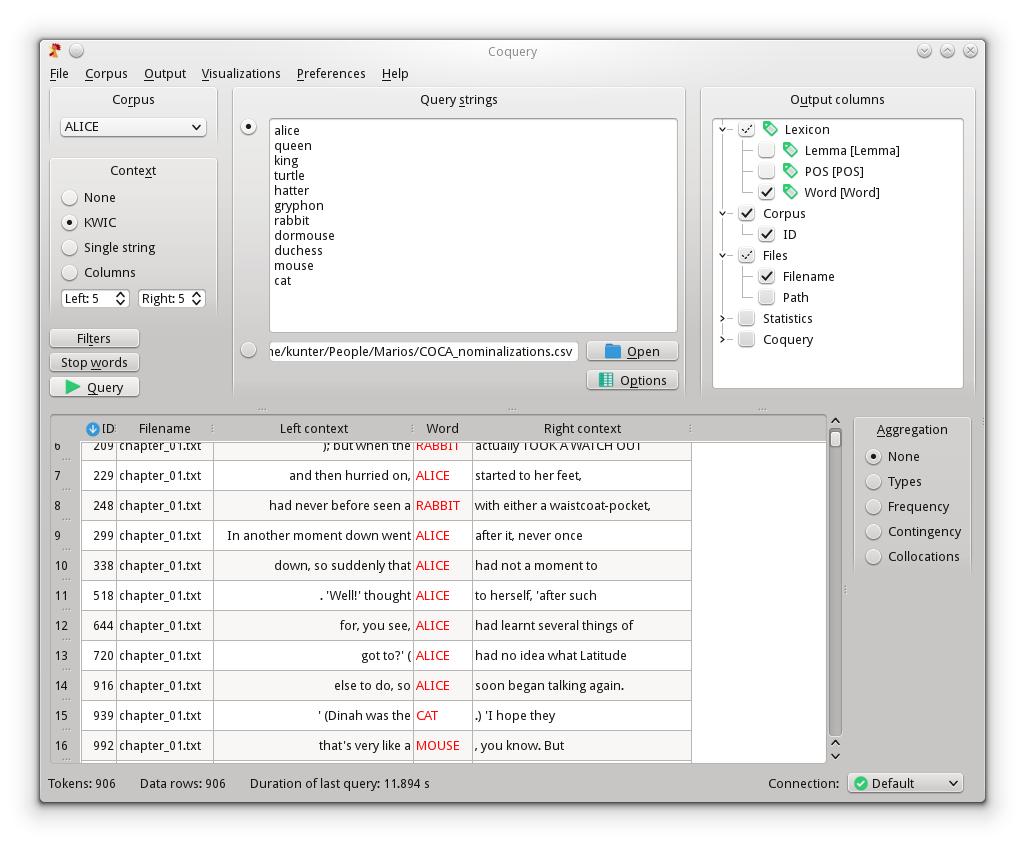
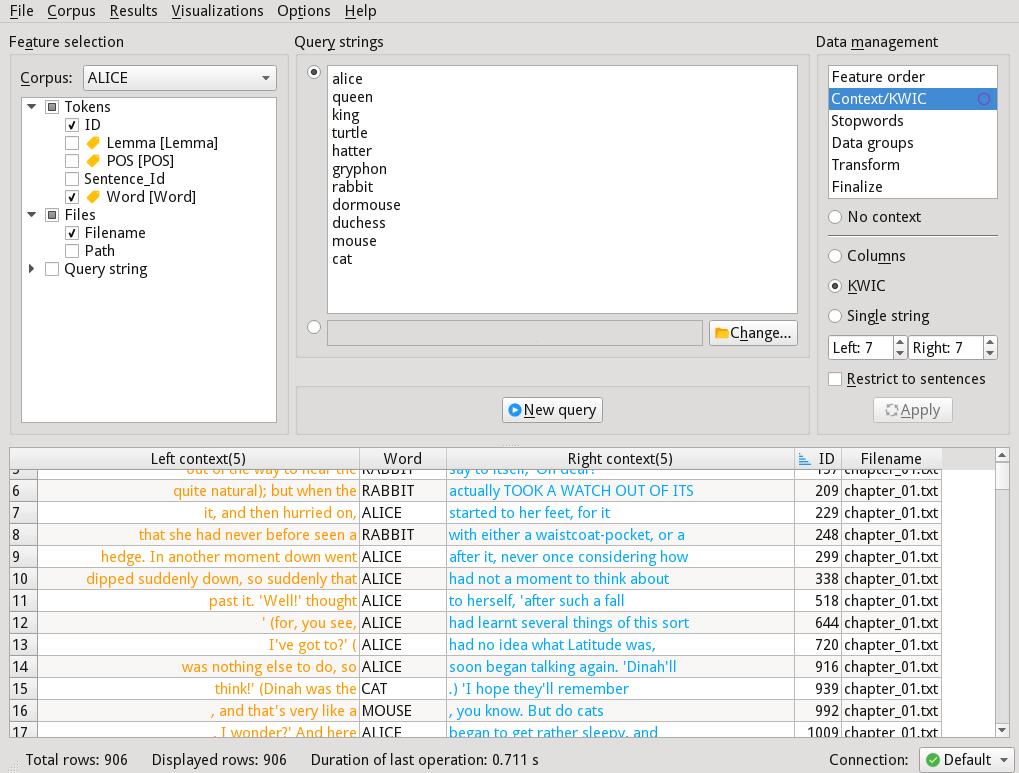
Update documentation

diff --git a/coquery/help/searchindex.js b/coquery/help/searchindex.js
@@ -1,1 +1,1 @@
-Search.setIndex({docnames:["doc/index","doc/tutorial/index","index","stash/development/development","stash/development/index","stash/welcome"],envversion:51,filenames:["doc/index.rst","doc/tutorial/index.rst","index.rst","stash/development/development.rst","stash/development/index.rst","stash/welcome.rst"],objects:{},objnames:{},objtypes:{},terms:{"128mb":[],"5mb":[],"\u0121abra":[],"case":[],"class":2,"default":1,"final":1,"function":1,"import":1,"long":[],"new":[1,2],"public":5,"return":1,"short":1,"switch":1,"void":[],"while":1,ADDED:[],AND:[],And:[],BEING:[],BUT:[],But:[],FOR:[],For:1,HAS:[],ICE:[],NOT:[],Not:[],One:1,POS:1,SUCH:[],Such:[],THE:[],THERE:[],The:[1,2],Then:1,There:[],These:[],USE:[],Use:[],Using:[],WILL:[],WITH:[],With:1,abil:[],about:1,abov:[],absenc:[],absolut:[],abus:[],accept:[],access:[],accompani:[],accord:[],accur:[],acknowledg:[],acquir:[],across:1,act:[],action:2,activ:1,actual:1,adapt:[],add:1,added:[],addit:1,addition:[],address:[],adject:[],adjust:1,adopt:[],advantag:[],adventur:1,advers:[],advic:1,advis:[],affect:[],affero:[],affirm:[],after:1,again:1,against:[],aggreg:[],agre:[],agreement:[],aim:[],alic:0,alk:[],all:1,alleg:[],alloc:[],allow:1,almost:[],along:[],alpha:[],alphabet:[],alreadi:1,als:[],also:1,altern:[],although:[],alwai:1,ambigu:[],american:[],among:[],anaconda:[],analys:[1,2],analysi:[],analyz:[],ancillari:[],ani:1,anim:1,annot:[],anoth:[],antconc:1,anti:[],anybodi:2,anyon:[],anyth:[],ao1:[],apart:1,appar:1,appear:1,append:[],appli:1,applic:1,appropri:[],approxim:[],area:[],aris:[],arrang:1,articl:1,ask:[],asp:[],assert:[],asset:[],assign:[],associ:[],assum:1,assumpt:[],assur:[],asterisk:1,attempt:[],attribut:[],author:[],autom:[],automat:1,avail:[1,2],averag:[],avoid:[],awai:[],backslash:[],balk:[],bar:1,barcod:1,base:[],basi:[],basic:[],beat:[],beautifulsoup:[],becaus:1,becom:1,been:[],beeswarm:[],befor:1,begin:1,behalf:[],behavior:[],being:[],believ:[],belong:[],below:1,benefit:[],benjamini:[],best:1,between:1,beyond:[],bigger:1,bigham:[],binari:1,bnc:[],bodi:[],book:1,both:1,boundari:[],box:[],bracket:[],brief:1,british:[],brown:2,bs4:[],bubbl:[],buckey:[],bug:4,build:[0,2],builder:1,built:2,bundl:[],busi:[],butten:1,button:1,byu:[],calc:1,calcul:[],calk:[],call:1,can:[1,2],cannot:[],capabl:1,capac:[],capit:[],capitan:[],card:1,carnegi:[],carri:[],carrol:1,cat:1,categori:[],caterpillar:1,caus:[],ceas:[],celex:[],cell:[],certain:[],cessat:[],chalk:[],chang:1,chapter:1,charact:[1,3],character:[],charat:[],chardet:[],charg:[],chart:[],cheat:1,check:[],checkbox:1,cheshir:1,chi:[],choos:1,circumst:[],circumvent:[],civil:[],claim:[],claws5:[],claws7:[],clean:[],clear:[],clearli:[],click:1,client:[],clipboard:[],close:1,cmudict:[],coca:[],code:1,coha:[],collaps:[],collect:[],colloc:[],color:1,colum:[],column:[1,3],com:[],combin:[],come:[],comma:1,command:[],commerci:[],commit:[],common:[],commun:[],compar:[],comparison:[],compat:[],compil:[],complain:[],complet:[],compli:[],complianc:[],compon:2,compos:1,comput:2,concern:[],concord:1,concordanc:[],condit:[],configur:[],confirm:1,conjunct:1,connect:0,consequ:[],consequenti:[],consid:[],consist:1,conspicu:1,constantli:[],constitu:[],constitut:[],constru:[],construct:[],consum:[],contact:[],contain:[1,3],contemporari:[],content:[],context:1,conting:0,contingci:[],continu:[],continuum:[],contractu:[],contradict:[],contrast:[],contributor:[],control:[],convei:[],conveni:[],convey:[],coontext:[],copi:[],copyleft:[],copyright:5,coqueri:2,coquerytool:5,corner:1,corpora:[0,1,2],corpu:[0,2,4,5],correct:[],correctli:1,correnspond:1,correspond:1,cost:[],could:[],count:[],counterclaim:[],countri:[],court:[],coven:[],cover:1,coverag:[],cramer:[],creat:1,criterion:[],cross:[],csv:1,cure:[],curli:[],current:1,custom:[],customarili:[],dai:[],damag:[],danger:[],data:[0,1,2,4],databas:0,date:[],decemb:[],decid:[],declin:[],deem:[],defeat:[],defect:[],defens:[],defin:[],definit:1,delimit:[],deni:[],denomin:[],depend:[],depriv:[],descend:1,describ:1,descript:1,deselect:[],design:1,detail:1,detect:[],determin:[],develop:[],devic:[],diachron:[],dialog:1,dictionari:[],differ:[1,2],difficult:[],direct:[],directli:[],directori:1,discard:[],disclaim:[],discoveri:[],discriminatori:[],disk:[],displai:[],distinct:1,distinguish:[],distribut:1,divid:[],dmg:[],document:[],docx:2,doe:1,doesn:1,domain:[],done:[],dormous:1,dot:[],doubl:[],doublet:[],doubt:[],down:[],download:[1,2],downstream:[],drag:1,drop:[],duchess:1,duplic:1,durabl:[],durat:[],dure:[],dwell:[],dynam:[],each:1,earlier:[],easi:1,easier:[],easiest:[],easili:1,edu:[],effect:[],effort:[],eight:1,either:1,element:1,eleven:1,embodi:[],empti:[],enabl:[],enclos:[],encod:[],encount:[],end:1,enforc:[],engin:[],english:[],ensur:[],enter:1,entir:[],entiti:[],entri:[0,1],entropi:[],equival:[],erron:[],escap:[],essenti:[],estim:[],eusk:[],evalu:[],even:1,event:[],ever:[],everi:[],everyon:[],everyth:[],exact:[],exactli:[],exampl:1,except:[],exclud:1,exclus:[],excus:[],exe:[],execut:[],exercis:[],exist:[],expand:[],expans:[],expect:[],experi:1,experiment:[],explain:[],explan:1,explicitli:[],explor:1,express:[],expressli:[],extend:[],extens:[],extent:[],extern:[],facil:[],factor:[],fail:[],failur:[],fair:[],fairli:[],fals:[],famili:[],fashion:[],faster:[],favor:[],favourit:1,featur:[1,2,4],fee:[],femal:1,fetch:[],few:1,field:1,figur:1,file:[1,2],fileid:[],filenam:1,filter:[],find:1,finish:1,first:[1,2],fit:[],fix:4,fixm:[],flow:[],folder:[],follow:[1,2],forbid:[],forc:[],form:[],format:[],found:1,foundat:[],four:[],free:[2,5],freedom:[],freeli:[],frequenc:0,frequent:1,from:[1,2],fsf:[],fulfil:[],full:1,fulli:[],fundament:[],further:[],futur:[],galleri:2,gather:[],gender:[],gener:5,genr:[],gero:5,get:0,github:[],give:[],given:1,gloss:[],gnu:5,govern:[],gpl:[],grant:[],grati:[],great:1,green:1,grid:1,group:[],gryphon:1,guarante:[],guid:[0,1],gutenberg:1,had:[],harddisk:[],has:[],hash:[],hatter:1,have:1,header:1,heat:[],help:1,here:[],hereaft:[],hesit:[],hide:1,high:1,highli:[],histor:[],hit:[],hochberg:[],holder:[],home:[],horizont:1,host:[],household:[],how:[],howev:1,html:2,http:5,icon:1,ident:[],identifi:1,ignor:[],illustr:[],imag:[],implement:[],impli:[],impos:[],inabl:[],inaccur:[],inact:1,inc:[],incident:[],includ:1,inclus:[],incompat:[],incorpor:[],increas:[],inde:1,indemnif:[],independ:[],index:[],indic:1,individu:[],industri:[],inflat:[],inform:1,infring:[],initi:[],input:[],insid:1,instal:[0,1,4],installat:[],instanc:1,instantli:1,instead:1,instruct:[],intact:[],intend:[],intent:[],interact:[],interchang:[],interest:[],interf:[],interfac:[0,1],intern:[],interpret:[],intim:[],introduct:[],invalid:[],invers:[],involv:[],irrevoc:[],issu:[],item:[],its:[],itself:[],june:[],just:[],keep:1,kei:1,kernel:[],kind:[],king:1,know:1,knowingli:[],knowledg:[],known:[],kunter:5,kwic:[],label:[1,3],languag:[],larg:[],larger:1,last:1,later:1,latex:[],launch:1,law:[],lawsuit:[],layout:1,learn:1,least:1,leav:1,left:1,legal:[],lemma:[],lemmat:1,length:[],less:[],letter:3,level:[],lewi:1,lexem:[],lexic:[],lexicograph:2,lexicon:[],liabil:[],liabl:[],libr:[],librari:[],libreoffic:1,licens:5,license:[],licensor:[],light:1,like:1,likelihood:[],likewis:[],limit:[],line:1,linguist:2,link:[],linux:[1,2],list:0,litig:[],load:1,local:[],locat:[],log:[],longer:[],look:1,loss:[],lot:1,mac:[1,2],machin:[],made:[],mai:[2,3],main:[0,1],maintain:[],major:[],make:1,male:[],maltes:[],manag:[0,1],mani:1,manipul:[],manner:[],manual:[0,1],manufactur:[],map:[],march:[],margin:1,mark:1,marker:[],mask:[],match:1,materi:[],mathc:[],mathemat:[],matplotlib:[],matrix:[],mean:1,measur:[],medium:[],meet:[],mellon:[],memori:[],mention:1,menu:[0,1],merchant:[],mere:[],merg:[],met:[],meta:1,metadata:1,method:[],microsoft:[],middl:1,might:[],million:[],minut:[1,2],misrepresent:[],miss:1,mode:[],model:[],modif:[],modifi:[],moment:1,more:[0,1],moreov:[],most:1,mostli:1,mous:1,move:[],much:1,multi:[],multipl:[],must:[],mutual:[],mwaskom:[],mysql:[],name:1,narum:[],nation:[],natur:[],necessari:[],need:[],negat:[],neither:[],network:[],next:0,nigeria:[],nltk:1,nn1:[],nn2:[],non:[],noncommerci:[],none:[],nor:[],normal:[],notabl:[],note:3,noth:[],notic:1,notifi:[],notwithstand:[],noun:1,now:[1,2],number:[1,3],numer:[],numpi:[],object:[],oblig:[],obtain:[],occasion:[],occassion:[],occupi:1,occur:1,occurr:1,odd:[],odfpi:[],odt:2,offer:2,offic:[],offici:[],often:[],onc:1,one:1,onli:[1,3],onto:1,open:1,opendocu:[],openoffic:1,oper:[],optim:[],option:1,order:1,org:5,organ:[],origin:[],orthograph:1,orthographi:[],osx:[],other:1,otherwis:[],our:1,out:1,outdat:[],output:1,outsid:[],over:[],overal:[],overview:[1,2],own:[0,1],packag:[],pairwis:[],pan:[],panda:[],panel:1,paragraph:[],paramet:[],parser:[],part:1,parti:[0,1],partial:[],particular:[],particularli:1,pass:[],password:[],patent:[],path:1,pattern:[],payment:[],pdf:[],pdfminer3k:[],pdfminer:[],peer:[],pend:1,per:[],percentag:[],perform:[],perhap:1,perman:[],permiss:[],permit:[],perpetu:[],person:[],pertin:[],phi:[],phonet:[],phonolog:[],phrasal:[],phrase:[],physic:[],pictur:1,piec:[],pip:[],pipe:[],place:1,plain:2,plainli:[],pleas:[],plot:1,plu:[],plural:[],pmw:[],portion:[],posit:1,possess:[],possibl:[],potenti:[],power:[],praat:2,practic:[],pre:[],preambl:[],preced:[],precis:[],predecessor:[],prefer:[],prefix:[],present:[],preserv:[],press:1,prevent:[],preview:[],previou:[],previous:1,price:[],primarili:[],princip:[],prior:[],privat:[],probabl:[],problem:1,procedur:[],process:[],procur:[],produc:1,product:[],program:[1,2],prohibit:[],project:1,promin:[],promis:[],pronunci:[],propag:[],properti:[],proport:[],proprietari:[],protagonist:1,protect:[],protocol:[],prove:[],provid:1,provis:[],provision:[],proxi:[],publicli:[],publish:[],punctuat:[],pure:[],purpos:[],pursuant:[],pymysql:[],pypi:[],pyqt4:[],pysid:[],python:1,qualifi:[],qualiti:[],quantif:[],quantifi:[],queen:1,queri:[0,1,2,5],quickli:1,quit:[],quot:[],quotat:1,rang:[],rank:1,raquo:2,rate:[],rather:[],ratio:[],read:2,readabl:[],readi:[],readili:[],rearrang:1,reason:[],reasult:[],recalcul:[],receipt:[],receiv:[],recent:[],recipi:[],recogn:[],recommend:[],red:1,redistribut:[],refer:[0,1],reflect:1,refrain:[],regard:[],regardless:[],regener:[],regexp:[],regular:[],reinstat:[],rel:1,relat:[],relationship:[],releas:5,relev:[],reli:[],relicens:[],remain:[],remov:[],renam:[],render:[],repair:[],repetit:[],replac:1,report:4,repres:[],request:4,requir:[],resembl:[],reserv:[],reset:[],resid:[],resolv:[],resourc:[],respect:[],respons:[],restrict:[],restructur:[],result:[0,2],retain:[],retriev:1,review:[],revis:[],right:1,risk:[],rom:[],row:1,royalti:[],rstudio:1,rule:[],run:1,runtim:[],sai:[],sake:[],sale:[],same:1,sampa:[],satisfi:[],save:[1,2],scienc:[],scientif:[],scipi:[],scope:[],score:[],screen:[],screenshot:2,script:[],scroll:[],seaborn:[],search:2,second:1,secondarili:[],section:[],see:[1,2],seem:1,select:1,selector:[],sell:[],semiconductor:[],sensit:[],sentenc:[],separ:1,sequenc:[],seri:[],serv:[],server:[],serverless:[],servic:[],session:1,set:1,setup:[],seven:1,sever:1,shall:[],shannon:[],shape:[],share:[],she:1,shorter:[],shot:[],should:1,show:1,shown:1,signific:[],significantli:[],similar:1,similarli:[],simpl:1,simpli:1,simultan:[],singl:1,singular:[],site:[],six:[],size:[],skip:[],slash:[],slightli:[],small:1,smaller:[],smallest:[],softwar:[],sold:[],sole:[],solv:1,some:2,somewhat:[],sort:1,sourc:[],space:3,span:[],spare:[],speak:[],speaker:[],special:3,specif:[],specifci:[],specifi:1,speech:2,spell:[],spirit:[],split:1,spot:[],sqlalchemi:[],sqlite3:[],squar:[],stabl:[],stack:[],stalk:[],stand:[],standard:[],standardli:[],stanford:[],start:0,state:[],statement:[],statist:[],statistics:[],statu:1,step:[1,2],still:[],stop:1,stopword:[],storag:[],store:[],stori:1,straightforward:1,strike:[],string:1,strongli:[],structur:1,sub:1,subcorpora:[],subdirectori:1,subdivid:[],subject:[],sublicens:[],submenu:[],subplot:1,subprogram:[],subqueri:[],subsect:[],substanti:[],substr:[],subtabl:[],sue:[],suffic:[],suffici:[],suggest:1,summar:1,summari:2,supplement:[],support:[0,1,2,4],sure:1,surpris:1,surrend:[],surviv:[],sustain:[],swap:[],switchboard:2,symbol:[],synonym:[],syntact:[],syntax:0,syntax_:[],system:[],systemat:[],tab:1,tabe:[],tabl:0,tabul:[],tabular:[],tag:1,take:1,talk:[],tangibl:[],task:1,technolog:[],telephon:[],tell:1,temporarili:[],ten:[1,2],term:5,termin:1,test:[],text:[1,2],textgrid:2,textgridtool:[],tgt:[],than:1,thei:1,them:1,therefor:[],thi:1,thing:1,third:[0,1],those:[],though:[],threaten:[],three:1,through:1,thu:1,tick:1,time:1,titl:1,togeth:[],token:1,too:[],took:[],tool:[2,5],toolbox:1,toolkit:1,top:1,total:[],tracker:[],trade:[],trademark:[],tradit:[],transact:[],transcript:[],transfer:[],transform:1,translat:2,transmiss:[],treat:[],treati:[],tree:1,ttr:[],turtl:1,tutori:[0,2],twelv:1,twice:1,twitter:5,two:1,type:1,typic:[],ueri:1,unaccept:[],unambigu:[],uncheck:[],undefin:[],under:[1,5],underscor:3,understand:1,unescap:[],unexpect:[],union:[],uniqu:[],unit:[],univers:[],unless:[],unlimit:[],unmodifi:[],unnecessari:[],unpack:[],unselect:[],until:[],unzip:[],updat:[],upper:1,use:1,used:1,useful:1,user:[0,1],uses:1,using:1,valid:[],valu:1,variabl:[],verb:[],verbatim:[],veri:1,version:2,vertic:1,via:[],view:2,viewer:[],violat:[],visibl:[],visual:[0,2,4],voic:1,volum:[],wai:1,waiv:[],waiver:[],walk:[],want:1,warlock:[],warn:[],warranti:[],waterfolk:[],web:[],websit:5,well:1,were:[],what:0,whatev:[],whelk:[],when:1,where:[],whether:[],which:1,who:2,whole:[],whom:[],whose:[],why:1,wide:[],wiht:[],wild:1,wildcard:[],win32:[],window:[1,2],wipo:[],wish:2,within:1,without:1,wonderland:1,woolsack:[],word:1,wordform:[],work:1,worldwid:[],would:[],write:4,written:[],wrote:[],www:5,year:[],yes:[],yet:1,you:1,young:[],your:[0,1,2],yourself:[],zero:[],zoom:[]},titles:["Coquery Documentation","Coquery Documentation: Tutorial","Coquery: a free corpus query tool","Reporting or fixing bugs","Improving Coquery","Coquery manual"],titleterms:{"class":3,"function":[],"public":[],The:3,Using:[],about:[],add:[],addit:[],aggreg:[],alic:1,area:[],asterisk:[],bar:[],barcod:[],basecorpusbuild:3,beeswarm:[],binari:[],bubbl:[],bug:3,build:1,byu:[],chang:[],charact:[],chart:[],clipboard:[],coca:[],colloc:[],color:[],column:[],compat:[],connect:[],context:[],conting:1,copi:[],coqueri:[0,1,4,5],corpora:[],corpu:[1,3],data:3,databas:[],distinct:[],document:0,download:[],entri:[],escap:[],exampl:[],extern:[],featur:3,figur:[],file:[],filter:[],fix:3,frequenc:1,galleri:[],gener:[],get:1,gloss:[],gnu:[],group:[],guid:[],heat:[],help:[],hide:[],improv:4,instal:3,interfac:[],introduct:[],item:[],keyword:[],kwic:[],layout:[],lemma:[],lemmat:[],licens:[],line:[],link:[],linux:[],list:1,locat:[],log:[],mac:[],main:[],manag:[],manual:5,map:[],mark:[],matrix:[],menu:[],modul:[],more:[],mysql:[],next:1,nltk:[],none:[],onli:[],oper:[],option:[],order:[],output:[],overview:[],own:[],packag:[],pan:[],part:[],parti:[],percentag:[],pip:[],plot:[],prefer:[],python:[],quantifi:[],queri:[],question:[],quit:[],refer:[],releas:3,renam:[],report:3,request:3,reset:[],result:1,row:[],save:[],screenshot:[],selector:[],server:[],serverless:[],set:[],show:[],singl:[],sort:[],sourc:[],special:[],specifi:[],speech:[],stack:[],start:1,statist:[],statu:[],stop:[],stopword:[],string:[],submenu:[],support:3,syntax:[],tabl:1,tag:[],test:[],third:[],time:[],transcript:[],transform:[],tutori:1,type:[],uniqu:[],user:[],using:[],valu:[],view:[],viewer:[],visual:[1,3],what:1,wildcard:[],window:[],word:[],work:[],write:3,your:3,zoom:[]}})
+Search.setIndex({docnames:["doc/index","doc/reference/index","doc/reference/interface","doc/tutorial/index","doc/userguide/columns","doc/userguide/connections","doc/userguide/index","doc/userguide/management","index","stash/development/development","stash/development/index","stash/welcome"],envversion:51,filenames:["doc/index.rst","doc/reference/index.rst","doc/reference/interface.rst","doc/tutorial/index.rst","doc/userguide/columns.rst","doc/userguide/connections.rst","doc/userguide/index.rst","doc/userguide/management.rst","index.rst","stash/development/development.rst","stash/development/index.rst","stash/welcome.rst"],objects:{},objnames:{},objtypes:{},terms:{"128mb":[],"5mb":[],"\u0121abra":[],"case":7,"class":8,"default":[3,4],"final":3,"function":[2,3,4,7],"import":3,"long":[],"new":[2,3,7,8],"public":[7,11],"return":[2,3],"short":3,"switch":3,"void":[],"while":[3,7],ADDED:7,AND:[],And:[],BEING:[],BUT:[],But:[],FOR:[],For:[2,3,4,7],HAS:[],ICE:[],NOT:[],Not:[],One:3,POS:3,SUCH:[],Such:[],THE:4,THERE:[],The:[2,3,4,5,7,8],Then:3,There:2,These:[2,7],USE:[],Use:[],Using:4,WILL:[],WITH:[],With:[2,3],abil:[],about:[3,7],abov:[2,4],absenc:[],absolut:[],abus:[],accept:[],access:7,accompani:[],accord:[],accur:[],acknowledg:[],acquir:[],across:3,act:[],action:8,activ:[2,3],actual:[2,3],adapt:[],add:[2,3,4],added:[2,7],addit:[3,4,6],addition:[],address:[],adject:[],adjust:3,adopt:[],advantag:7,adventur:3,advers:[],advic:3,advis:7,affect:[],affero:[],affirm:[],after:[2,3,4],again:[3,7],against:2,aggreg:[1,4],agre:[],agreement:[],aim:[],alic:[0,2],alk:[],all:[2,3,4,7],alleg:[],alloc:[],allow:[3,4],almost:[],along:[],alpha:7,alphabet:[],alreadi:3,als:7,also:[2,3,4,7],altern:[],although:[],alwai:3,ambigu:[],american:[],among:[],anaconda:[],analys:[3,8],analysi:[],analyz:[],ancillari:[],ani:[3,4],anim:3,annot:[],anoth:[2,4,7],antconc:3,anti:[],anybodi:8,anyon:[],anyth:[],ao1:[],apart:3,appar:3,appear:[2,3,7],append:[],appli:[3,7],applic:3,appropri:[],approxim:[],area:2,aris:[],arrang:[3,4],articl:3,ask:[],asp:[],assert:[],asset:[],assign:[],associ:[],assum:3,assumpt:[],assur:[],asterisk:3,attempt:[],attribut:[],author:[],autom:[],automat:3,avail:[2,3,4,7,8],averag:[],avoid:[],awai:[],backslash:[],balk:[],bar:[1,3],barcod:3,base:7,basi:[],basic:[],beat:[],beautifulsoup:[],becaus:3,becom:[2,3,7],been:2,beeswarm:[],befor:3,begin:[3,4],behalf:[],behavior:7,being:[],believ:[],belong:[],below:[3,7],benefit:[],benjamini:7,best:3,between:[3,7],beyond:[],bigger:3,bigham:[],binari:3,bnc:7,bodi:[],book:3,both:[2,3],boundari:7,box:[2,4,7],bracket:[2,4],brief:3,british:[],brown:8,bs4:[],bubbl:[],buckey:[],bug:10,build:[0,8],builder:3,built:8,bundl:[],busi:[],butten:3,button:[2,3,7],byu:6,calc:3,calcul:[4,7],calk:[],call:3,can:[2,3,4,5,7,8],cannot:[],capabl:3,capac:[],capit:7,capitan:[],card:3,carnegi:[],carri:[],carrol:3,cat:3,categori:[],caterpillar:3,caus:[],ceas:[],celex:[],cell:7,certain:[],cessat:[],chalk:[],chang:[2,3,7],chapter:3,charact:[2,3,6,9],character:[],charat:2,chardet:[],charg:[],chart:[],cheat:3,check:[2,4,7],checkbox:[3,4],cheshir:3,chi:7,choos:[2,3,7],circumst:[],circumvent:[],civil:[],claim:[],claws5:[],claws7:[],clean:[],clear:[],clearli:[],click:[2,3,4,7],client:[],clipboard:7,close:[2,3],cmudict:[],coca:6,code:3,coha:[],collaps:4,collect:[],colloc:[],color:[3,7],colum:2,column:[1,3,7,9],com:[],combin:7,come:[],comma:3,command:[2,4],commerci:[],commit:[],common:[],commun:[],compar:7,comparison:7,compat:6,compil:[],complain:[],complet:[4,7],compli:[],complianc:[],compon:8,compos:3,comput:[5,8],concern:[],concord:3,concordanc:7,condit:[],configur:[],confirm:3,conjunct:3,connect:[0,1,6],consequ:[],consequenti:[],consid:[2,4,7],consist:[2,3],conspicu:3,constantli:[],constitu:[],constitut:[],constru:[],construct:7,consum:[],contact:[],contain:[2,3,4,7,9],contemporari:[],content:7,context:[1,3,4,6],conting:0,contingci:7,continu:[],continuum:[],contractu:[],contradict:[],contrast:[],contributor:[],control:7,convei:[],conveni:[],convey:[],coontext:7,copi:7,copyleft:[],copyright:11,coqueri:[2,4,8],coquerytool:11,corner:[3,7],corpora:[0,2,3,4,7,8],corpu:[0,1,4,7,8,10,11],correct:7,correctli:[2,3],correnspond:3,correspond:[3,7],cost:[],could:[],count:7,counterclaim:[],countri:[],court:[],coven:[],cover:3,coverag:[],cramer:7,creat:3,criterion:[],cross:[],csv:3,cure:[],curli:[],current:[2,3,4,7],custom:[],customarili:[],dai:[],damag:[],danger:[],data:[0,2,3,6,8,10],databas:[0,2,6],date:4,decemb:[],decid:[],declin:[],deem:[],defeat:[],defect:[],defens:[],defin:[2,7],definit:3,delimit:[],deni:[],denomin:[],depend:[2,4,7],depriv:[],descend:3,describ:[2,3,4,7],descript:[3,4],deselect:4,design:3,detail:[2,3,4],detect:[],determin:7,develop:[],devic:[],diachron:[],dialog:[2,3,7],dictionari:[],differ:[3,4,7,8],difficult:[],direct:[],directli:[],directori:[3,5],discard:[2,7],disclaim:[],discoveri:7,discriminatori:[],disk:[],displai:[4,7],distinct:3,distinguish:[],distribut:3,divid:[],dmg:[],document:[2,4],docx:8,doe:3,doesn:3,domain:[],done:[],dormous:3,dot:[],doubl:[2,4],doublet:7,doubt:[],down:[2,7],download:[3,8],downstream:[],drag:3,drop:2,duchess:3,duplic:3,durabl:[],durat:[],dure:[],dwell:[],dynam:[],each:[2,3,4,7],earlier:[],easi:[3,7],easier:7,easiest:[],easili:3,edu:[],effect:7,effort:[],eight:3,either:[2,3,4,5,7],element:3,eleven:3,embodi:[],empti:[],enabl:[],enclos:[],encod:[],encount:[],end:3,enforc:[],engin:[],english:[],ensur:[],enter:[2,3,4],entir:[],entiti:[],entri:[0,1,2,3,7],entropi:4,equival:[],erron:[],escap:6,essenti:[],estim:7,eusk:[],evalu:2,even:3,event:[],ever:[],everi:[],everyon:[],everyth:[],exact:[],exactli:2,exampl:[2,3,4,6,7],except:[],exclud:[3,7],exclus:[],excus:[],exe:[],execut:[],exercis:[],exist:[],expand:4,expans:4,expect:[],experi:3,experiment:7,explain:[],explan:3,explicitli:[],explor:3,express:[],expressli:[],extend:[],extens:[],extent:[],extern:[2,4],facil:[],factor:[],fail:[],failur:[],fair:[],fairli:[],fals:7,famili:[],fashion:[],faster:[],favor:[],favourit:3,featur:[3,6,8,10],fee:[],femal:[3,7],fetch:[],few:3,field:[2,3],figur:[3,6,7],file:[1,2,3,4,7,8],fileid:[],filenam:[2,3,7],filter:[1,7],find:[3,7],finish:3,first:[2,3,4,7,8],fit:[],fix:10,fixm:[],flow:[],folder:[],follow:[3,4,8],forbid:[],forc:[],form:[4,7],format:[2,4],found:3,foundat:[],four:[],free:[8,11],freedom:[],freeli:[],frequenc:[0,2,4],frequent:[3,7],from:[2,3,4,7,8],fsf:[],fulfil:[],full:3,fulli:[],fundament:[],further:7,futur:[],galleri:8,gather:[],gender:[],gener:11,genr:4,gero:11,get:0,github:[],give:[],given:[2,3,4],gloss:[],gnu:11,govern:[],gpl:[],grant:[],grati:[],great:3,green:3,grid:3,group:6,gryphon:3,guarante:[],guid:[0,3],gutenberg:3,had:[],harddisk:[],has:7,hash:[],hatter:3,have:[2,3,7],header:[2,3,7],heat:[],help:[1,3],here:[],hereaft:[],hesit:[],hide:[3,4,7],high:[2,3],highli:[],histor:[],hit:[],hochberg:7,holder:[],home:5,horizont:3,host:[],household:[],how:7,howev:3,html:[7,8],http:11,icon:[2,3,4],ident:4,identifi:[3,4],ignor:[2,7],illustr:[],imag:[],implement:[],impli:[],impos:[],inabl:[],inaccur:[],inact:3,inc:[],incident:[],includ:[2,3,4,7],inclus:[],incompat:[],incorpor:[],increas:[],inde:3,indemnif:[],independ:7,index:[],indic:[3,4,7],individu:[],industri:[],inflat:7,inform:[3,4,7],infring:[],initi:4,input:[2,4],insid:3,instal:[0,2,3,10],installat:[],instanc:[3,7],instantli:3,instead:3,instruct:[],intact:[],intend:[],intent:[],interact:[],interchang:[],interest:[],interf:[],interfac:[0,1,3,4],intern:2,interpret:[],intim:[],introduct:6,invalid:[],invers:[],involv:7,irrevoc:[],issu:[],item:[2,4,6],its:7,itself:[2,4],june:[],just:[],keep:3,kei:3,kernel:[],kind:[],king:[2,3],know:3,knowingli:[],knowledg:[],known:[],kunter:11,kwic:[2,7],label:[3,9],languag:[],larg:7,larger:[3,7],last:[3,4,7],later:3,latex:7,launch:3,law:[],lawsuit:[],layout:[3,4,6],learn:3,least:[3,4],leav:3,left:[2,3,7],legal:[],lemma:[2,4],lemmat:[3,6],length:[],less:2,letter:[2,7,9],level:4,lewi:3,lexem:4,lexic:[],lexicograph:8,lexicon:2,liabil:[],liabl:[],libr:[],librari:[],libreoffic:3,licens:11,license:[],licensor:[],light:3,like:3,likelihood:7,likewis:[],limit:[],line:[2,3],linguist:8,link:[2,4],linux:[3,8],list:[0,2],litig:[],load:3,local:5,locat:[],log:7,longer:[],look:[3,4],loss:[],lot:3,mac:[3,8],machin:[],made:[],mai:[2,4,7,8,9],main:[0,1,3,4,7],maintain:[],major:[],make:3,male:7,maltes:[],manag:[0,3,6],mani:[3,7],manipul:[],manner:[],manual:[0,3],manufactur:[],map:2,march:[],margin:3,mark:[2,3,4],marker:2,mask:[],match:[2,3,4,7],materi:[],mathc:[],mathemat:[],matplotlib:[],matrix:[],mean:3,measur:[],medium:[],meet:[],mellon:[],memori:[],mention:3,menu:[0,1,2,3,4,7],merchant:[],mere:[],merg:7,met:[],meta:3,metadata:3,method:[2,7],microsoft:[],middl:3,might:4,million:4,minut:[3,8],misrepresent:[],miss:3,mode:[2,4],model:[],modif:[],modifi:[],moment:3,more:[0,2,3,7],moreov:[],most:[3,7],mostli:3,mous:3,move:[],much:[3,7],multi:4,multipl:7,must:[],mutual:[],mwaskom:[],mysql:6,name:[2,3,4,7],narum:7,nation:[],natur:[],necessari:[],need:[],negat:[],neither:[],network:5,next:[0,2],nigeria:[],nltk:3,nn1:[],nn2:[],non:[],noncommerci:[],none:2,nor:[],normal:4,notabl:[],note:9,noth:[],notic:3,notifi:[],notwithstand:[],noun:3,now:[2,3,7,8],number:[2,3,4,7,9],numer:7,numpi:[],object:[],oblig:[],obtain:7,occasion:[],occassion:[],occupi:3,occur:[3,7],occurr:[3,7],odd:7,odfpi:[],odt:8,offer:[7,8],offic:[],offici:[],often:2,onc:[3,7],one:[2,3,4,7],onli:[3,4,9],onto:[2,3],open:[2,3,4,7],opendocu:[],openoffic:3,oper:6,optim:[],option:[1,3],order:[2,3,6],org:11,organ:[],origin:[],orthograph:[3,4],orthographi:[],osx:[],other:[3,4,7],otherwis:[],our:3,out:[3,7],outdat:[2,4],output:[1,3,7],outsid:[],over:[],overal:4,overview:[3,8],own:[0,3],packag:[],pairwis:7,pan:6,panda:[],panel:3,paragraph:[],paramet:[],parser:[],part:[2,3,4,6,7],parti:[0,3],partial:[],particular:[],particularli:3,pass:[],password:[],patent:[],path:3,pattern:[],payment:[],pdf:[],pdfminer3k:[],pdfminer:[],peer:[],pend:3,per:4,percentag:[],perform:7,perhap:3,perman:[],permiss:[],permit:[],perpetu:[],person:[],pertin:[],phi:7,phonet:[],phonolog:4,phrasal:[],phrase:[],physic:[],pictur:3,piec:[],pip:[],pipe:[],place:3,plain:[7,8],plainli:[],pleas:[],plot:3,plu:[],plural:[],pmw:4,portion:[],posit:3,possess:[],possibl:2,potenti:[],power:[],praat:8,practic:[],pre:2,preambl:[],preced:[],precis:[],predecessor:[],prefer:1,prefix:[],present:[],preserv:[],press:[2,3,7],prevent:[],preview:2,previou:7,previous:3,price:[],primarili:[],princip:[],prior:[],privat:[],probabl:[],problem:3,procedur:[],process:2,procur:[],produc:[3,4,7],product:[],program:[3,8],prohibit:[],project:3,promin:[],promis:[],pronunci:[],propag:[],properti:[],proport:4,proprietari:[],protagonist:3,protect:[],protocol:[],prove:[],provid:[3,4,7],provis:[],provision:[],proxi:[],publicli:[],publish:[],punctuat:2,pure:[],purpos:[],pursuant:[],pymysql:[],pypi:[],pyqt4:[],pysid:[],python:3,qualifi:[],qualiti:[],quantif:[],quantifi:[4,6],queen:[2,3],queri:[0,1,3,4,6,7,8,11],quickli:3,quit:[],quot:2,quotat:[2,3],rang:2,rank:3,raquo:8,rate:7,rather:[],ratio:7,read:[2,8],readabl:[],readi:[],readili:[],rearrang:3,reason:[],reasult:2,recalcul:4,receipt:[],receiv:[],recent:[],recipi:[],recogn:[],recommend:[],red:[3,7],redistribut:[],refer:[0,3,4],reflect:3,refrain:[],regard:[],regardless:[],regener:[],regexp:[],regular:[],reinstat:[],rel:[3,4,7],relat:4,relationship:[],releas:11,relev:[],reli:[],relicens:[],remain:[],remov:[2,7],renam:[],render:[],repair:[],repetit:[],replac:3,report:[7,10],repres:[],request:10,requir:[],resembl:7,reserv:[],reset:2,resid:[],resolv:[],resourc:[],respect:[2,4],respons:[],restrict:7,restructur:7,result:[0,1,4,7,8],retain:[],retriev:[3,7],review:[],revis:[],right:[2,3,4,7],risk:[],rom:[],row:[3,4],royalti:[],rstudio:3,rule:[],run:[3,5],runtim:[],sai:[],sake:[],sale:[],same:[2,3,7],sampa:[],satisfi:[],save:[2,3,6,8],scienc:[],scientif:7,scipi:[],scope:[],score:[],screen:[2,7],screenshot:[2,8],script:[],scroll:7,seaborn:[],search:8,second:[2,3,4],secondarili:[],section:[],see:[2,3,4,8],seem:3,select:[2,3,4,7],selector:1,sell:[],semiconductor:[],sensit:[],sentenc:7,separ:[2,3,7],sequenc:[],seri:[],serv:[],server:6,serverless:6,servic:[],session:3,set:[3,6,7],setup:[],seven:3,sever:[3,4],shall:[],shannon:4,shape:7,share:7,she:3,shorter:7,shot:2,should:[3,7],show:[3,4,7],shown:[2,3,4,7],signific:7,significantli:7,similar:3,similarli:[],simpl:3,simpli:3,simultan:[],singl:[2,3,4,7],singular:[],site:[],six:[],size:7,skip:2,slash:[],slightli:[],small:3,smaller:7,smallest:[],softwar:[],sold:[],sole:[],solv:3,some:[2,4,7,8],somewhat:7,sort:[3,7],sourc:[],space:9,span:7,spare:[],speak:[],speaker:7,special:9,specif:[2,4],specifci:2,specifi:[2,3,6,7],speech:[4,6,7,8],spell:[],spirit:[],split:[3,7],spot:7,sqlalchemi:[],sqlite3:5,squar:[4,7],stabl:[],stack:[],stalk:[],stand:[],standard:[],standardli:[],stanford:[],start:0,state:[],statement:[],statist:[4,7],statistics:[],statu:[1,3],step:[3,8],still:[2,7],stop:[1,3],stopword:6,storag:[],store:[2,4,5],stori:3,straightforward:3,strike:[],string:[1,3,4,6,7],strongli:7,structur:[2,3,4],sub:3,subcorpora:7,subdirectori:3,subdivid:7,subject:[],sublicens:[],submenu:[2,4],subplot:3,subprogram:[],subqueri:2,subsect:[],substanti:[],substr:[],subtabl:[],sue:[],suffic:[],suffici:[],suggest:3,summar:3,summari:[7,8],supplement:[],support:[0,3,8,10],sure:3,surpris:3,surrend:[],surviv:[],sustain:[],swap:[],switchboard:8,symbol:4,synonym:[],syntact:[],syntax:[0,2,6],syntax_:[],system:[],systemat:[],tab:[2,3],tabe:2,tabl:[0,1],tabul:2,tabular:2,tag:[2,3,4,7],take:[3,7],talk:[],tangibl:[],task:3,technolog:[],telephon:[],tell:3,temporarili:7,ten:[3,8],term:11,termin:3,test:[],text:[2,3,4,7,8],textgrid:8,textgridtool:[],tgt:[],than:[2,3,4,7],thei:[3,7],them:[2,3],therefor:7,thi:[2,3,4,7],thing:3,third:[0,3],those:[4,7],though:[],threaten:[],three:[2,3,4],through:3,thu:[2,3],tick:[3,4],time:[3,4,7],titl:[3,4],togeth:2,token:[2,3,4,7],too:[],took:[],tool:[8,11],toolbox:[3,7],toolkit:3,top:3,total:7,tracker:[],trade:[],trademark:[],tradit:7,transact:[],transcript:4,transfer:[],transform:[3,6],translat:8,transmiss:[],treat:2,treati:[],tree:[2,3,4],ttr:7,turtl:3,tutori:[0,8],twelv:3,twice:3,twitter:11,two:[2,3,4,7],type:[2,3,4,7],typic:4,ueri:3,unaccept:[],unambigu:4,uncheck:2,undefin:7,under:[3,11],underscor:9,understand:3,unescap:[],unexpect:[],union:[],uniqu:[2,4],unit:[],univers:[],unless:[],unlimit:[],unmodifi:[],unnecessari:[],unpack:[],unselect:2,until:7,unzip:[],updat:[],upper:[3,7],use:[2,3,5,7],used:[2,3,4,7],useful:3,user:[0,3,5,7],uses:[2,3],using:[3,7],valid:7,valu:[2,3,4,7],variabl:7,verb:[],verbatim:[],veri:[2,3],version:[4,8],vertic:3,via:[],view:[4,7,8],viewer:[2,7],violat:[],visibl:4,visual:[0,1,6,8,10],voic:3,volum:[],wai:[2,3,7],waiv:[],waiver:[],walk:[],want:[3,7],warlock:[],warn:7,warranti:[],waterfolk:[],web:[],websit:11,well:[3,7],were:[],what:0,whatev:[],whelk:[],when:[3,4],where:4,whether:[],which:[2,3,4,7],who:8,whole:[4,7],whom:[],whose:[],why:3,wide:[],wiht:[],wild:3,wildcard:6,win32:[],window:[3,4,8],wipo:[],wish:[2,7,8],within:3,without:[2,3],wonderland:3,woolsack:[],word:[1,3,4,7],wordform:4,work:3,worldwid:[],would:[],write:[4,10],written:4,wrote:[],www:11,year:4,yes:[],yet:[3,4],you:[2,3,4,7],young:[],your:[0,3,4,7,8],yourself:[],zero:2,zoom:6},titles:["Coquery Documentation","Reference guide","Coquery Documentation: Main interface","Coquery Documentation: Tutorial","Coquery Documentation: Output columns","Coquery Documentation: Connections","Coquery Documentation: Users manual","Coquery Documentation: Data management","Coquery: a free corpus query tool","Reporting or fixing bugs","Improving Coquery","Coquery manual"],titleterms:{"class":9,"function":[],"public":[],The:9,Using:[],about:[],add:[],addit:[],aggreg:2,alic:3,area:[],asterisk:[],bar:2,barcod:[],basecorpusbuild:9,beeswarm:[],binari:[],bubbl:[],bug:9,build:3,byu:[],chang:[],charact:[],chart:[],clipboard:[],coca:[],colloc:7,color:[],column:[2,4],compat:[],connect:[2,5],context:[2,7],conting:[3,7],copi:[],coqueri:[0,3,10,11],corpora:[],corpu:[2,3,9],data:[7,9],databas:5,distinct:7,document:0,download:[],entri:[],escap:[],exampl:[],extern:[],featur:[7,9],figur:[],file:[],filter:2,fix:9,frequenc:[3,7],galleri:[],gener:[],get:3,gloss:[],gnu:[],group:7,guid:1,heat:[],help:[],hide:[],improv:10,instal:9,interfac:2,introduct:[],item:[],keyword:[],kwic:[],layout:[],lemma:[],lemmat:[],licens:[],line:[],link:[],linux:[],list:[3,7],locat:[],log:[],mac:[],main:2,manag:7,manual:[6,11],map:[],mark:[],matrix:7,menu:[],modul:[],more:[],mysql:5,next:3,nltk:[],none:[],onli:7,oper:[],option:2,order:7,output:[2,4],overview:4,own:[],packag:[],pan:[],part:[],parti:[],percentag:[],pip:[],plot:[],prefer:[],python:[],quantifi:[],queri:2,question:[],quit:[],refer:1,releas:9,renam:[],report:9,request:9,reset:[],result:[2,3],row:[2,7],save:[],screenshot:[],selector:2,server:5,serverless:5,set:5,show:[],singl:[],sort:[],sourc:[],special:4,specifi:[],speech:[],stack:[],start:3,statist:[],statu:2,stop:2,stopword:7,string:2,submenu:[],support:9,syntax:[],tabl:[2,3,4,7],tag:[],test:7,third:[],time:[],transcript:[],transform:7,tutori:3,type:[],uniqu:[],user:6,using:[],valu:[],view:[],viewer:[],visual:[3,9],what:3,wildcard:[],window:[],word:2,work:[],write:9,your:9,zoom:[]}})

diff --git a/coquery/help/doc/reference/interface.html b/coquery/help/doc/reference/interface.html
@@ -56,7 +56,7 @@
 <div class="section" id="main-interface">
 <h1>Main interface</h1>
 <div class="figure" id="id1">
-<a class="reference internal image-reference" href="../../_images/interface.png"><img alt="../../_images/interface.png" src="../../_images/interface.png" style="width: 1025.0px; height: 842.0px;" /></a>
+<a class="reference internal image-reference" href="../../_images/interface.png"><img alt="../../_images/interface.png" src="../../_images/interface.png" style="width: 1019.0px; height: 773.0px;" /></a>
 <p class="caption"><span class="caption-text">The main Coquery interface.</span></p>
 </div>
 <div class="section" id="corpus-selector">
